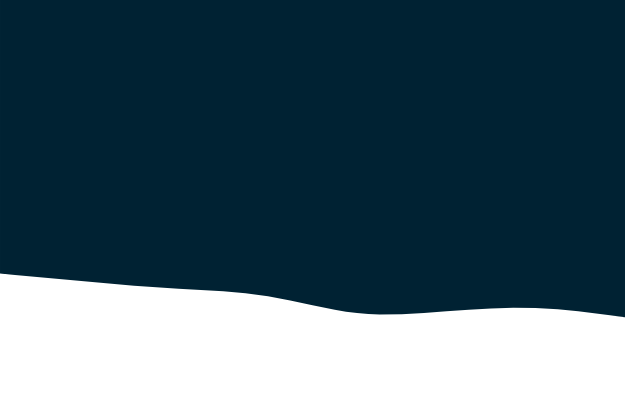
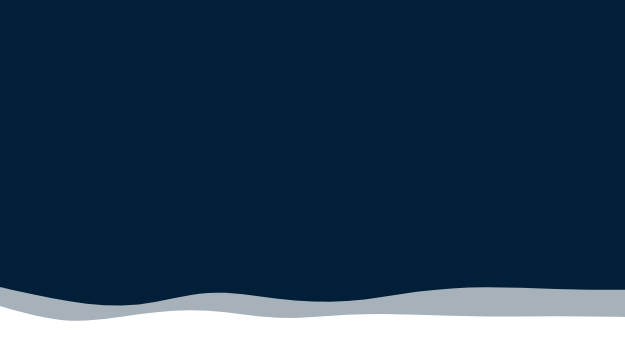
maj CSS V11

Changed region(s): [[0.0, 0.6553, 1.0, 0.9117]]

diff --git a/public/css/style.css b/public/css/style.css
@@ -1,7 +1,7 @@
 body, html{height:100%;}
 
 body{
-    background-image: url("../images/b2.png");
+    background-image: url("../images/bg.png");
     background-repeat: no-repeat;
     background-attachment: fixed;
     background-position: center center;

diff --git a/public/css/ville-index.css b/public/css/ville-index.css
@@ -22,7 +22,7 @@ body{
     border-color: white;
     border-width: 0.5px;
     max-height: 350px;
-    overflow: auto;
+    overflow-y: scroll;
 }
 
 .div-search{

diff --git a/public/css/login.css b/public/css/login.css
@@ -350,4 +350,3 @@ input:-webkit-autofill:focus {
 /*------------------------------------------------------------------
 [ Responsive ]*/
 
-
